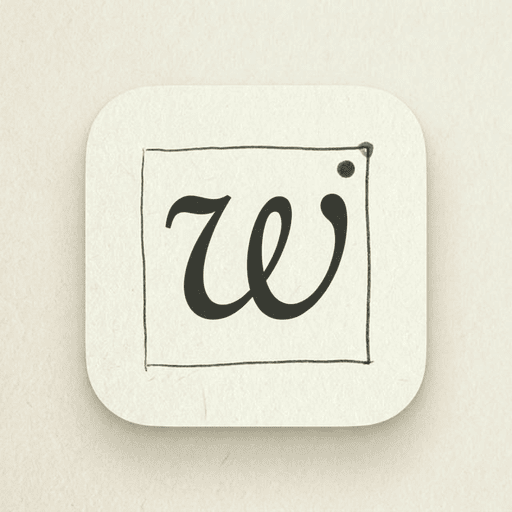
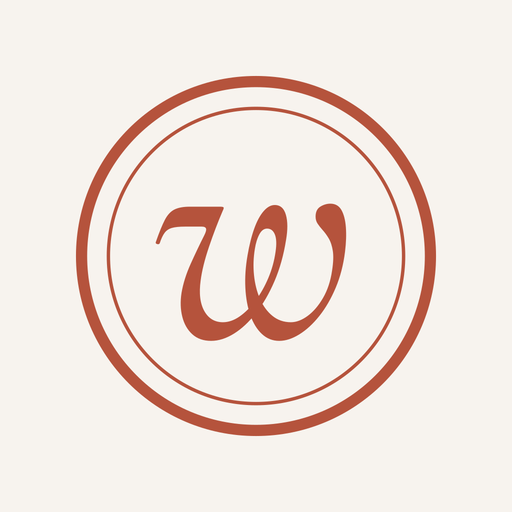
feat(word-diary): サイトを新ロゴ（OFL 版）に合わせる (Refs #203)
- アイコン（ヒーロー・一覧・サービス一覧のカード）を新アイコンに差し替え
- OGP 画像の左側アイコンを新アイコンに差し替え（他の部分は変更なし）
- ja / en / vi の About 見出し付近に添える一文を入れる
  - ja: 写真と、今日の一語。
  - en: One photo. One word. Today.
  - vi: Một bức ảnh. Một từ. Hôm nay. （母語話者の確認が必要）

diff --git a/vi/apps/word-diary/index.html b/vi/apps/word-diary/index.html
@@ -81,6 +81,7 @@
     .section-title { font-size: 14px; font-weight: 600; text-transform: uppercase; letter-spacing: 3px; color: #d85e42; margin-bottom: 16px; }
     .section h2 { font-size: clamp(28px, 5vw, 40px); font-weight: 700; margin-bottom: 24px; line-height: 1.2; }
     .section p { font-size: 17px; color: #999; line-height: 1.8; }
+    .section .tagline { font-size: 18px; color: #d85e42; letter-spacing: 0.5px; margin-bottom: 20px; }
     .features { display: grid; grid-template-columns: repeat(2, 1fr); gap: 20px; margin-top: 48px; }
     .feature-card {
       background: rgba(255,255,255,0.04); border: 1px solid rgba(255,255,255,0.06);
@@ -137,6 +138,7 @@
   <div class="section fade-in">
     <div class="section-title">Giới thiệu</div>
     <h2>Ghi lại hôm nay<br>chỉ bằng một từ.</h2>
+    <p class="tagline">Một bức ảnh. Một từ. Hôm nay.</p>
     <p>
       Word Diary là ứng dụng nhật ký đơn giản — một ảnh, một từ, mỗi ngày.
       Không cần viết dài. Chỉ một từ thể hiện hôm nay, và câu chuyện của bạn tự hình thành theo thời gian.

diff --git a/en/apps/word-diary/index.html b/en/apps/word-diary/index.html
@@ -85,6 +85,7 @@
     .section-title { font-size: 14px; font-weight: 600; text-transform: uppercase; letter-spacing: 3px; color: #d85e42; margin-bottom: 16px; }
     .section h2 { font-size: clamp(28px, 5vw, 40px); font-weight: 700; margin-bottom: 24px; line-height: 1.2; }
     .section p { font-size: 17px; color: #999; line-height: 1.8; }
+    .section .tagline { font-size: 18px; color: #d85e42; letter-spacing: 0.5px; margin-bottom: 20px; }
     .features { display: grid; grid-template-columns: repeat(2, 1fr); gap: 20px; margin-top: 48px; }
     .feature-card {
       background: rgba(255,255,255,0.04); border: 1px solid rgba(255,255,255,0.06);
@@ -141,6 +142,7 @@
   <div class="section fade-in">
     <div class="section-title">About</div>
     <h2>Capture today<br>in one word.</h2>
+    <p class="tagline">One photo. One word. Today.</p>
     <p>
       Word Diary is a journaling app that keeps it simple — one photo, one word, every day.
       No long entries needed. Just one word that captures today, and your story builds itself over time.

diff --git a/apps/word-diary/index.html b/apps/word-diary/index.html
@@ -151,6 +151,8 @@
       line-height: 1.8;
     }
 
+    .section .tagline { font-size: 18px; color: #d85e42; letter-spacing: 0.5px; margin-bottom: 20px; }
+
     /* Features */
     .features {
       display: grid;
@@ -261,6 +263,7 @@
   <div class="section fade-in">
     <div class="section-title">About</div>
     <h2>言葉を刻む、<br>毎日の記録。</h2>
+    <p class="tagline">写真と、今日の一語。</p>
     <p>
       Word Diaryは、1日1枚の写真と1つの言葉だけで日記を続けるアプリです。
       長文は不要。今日を一言で表すだけで、あなたの軌跡が積み重なっていきます。
